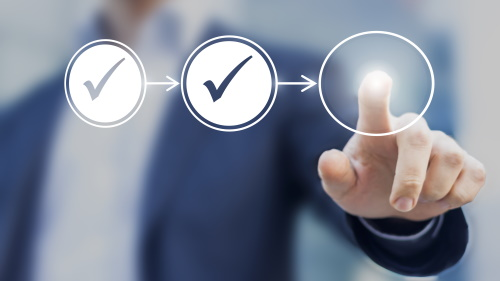
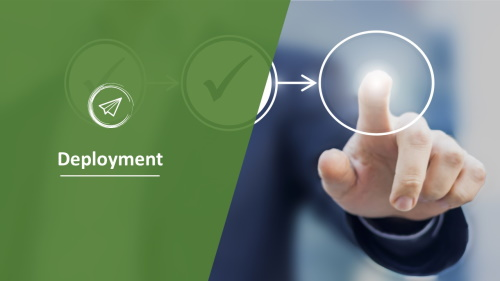
Updated images (#117)

diff --git a/website/pages/en/index.js b/website/pages/en/index.js
@@ -102,7 +102,7 @@ class Index extends React.Component {
               {
                 title: `[Deployment](${siteConfig.baseUrl}docs/deployment/deployment_general.html)`,
                 content: `Deploying the Thinkwise Platform and applications.`,
-                image: `${siteConfig.baseUrl}img/Knowledge Base.jpg`,
+                image: `${siteConfig.baseUrl}img/Deployment.jpg`,
                 imageAlign: 'top',
                 imageLink: `${siteConfig.baseUrl}docs/deployment/deployment_general.html`,
                 imageAlt: 'Deployment',
